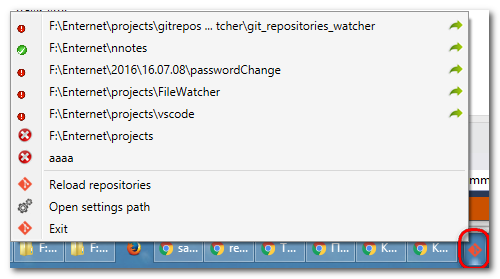
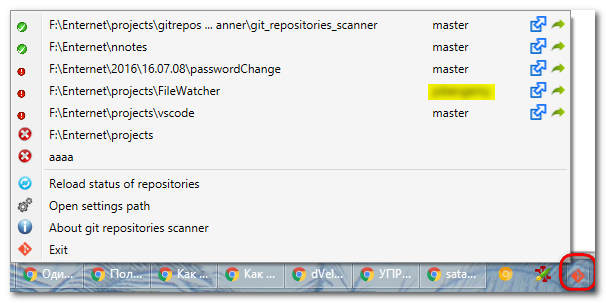
- добавил в меню имя текущей ветки

Changed region(s): [[0.0, 0.0287, 0.99, 0.9749], [0.69, 0.2007, 0.84, 0.4014], [0.69, 0.1434, 0.78, 0.172]]

diff --git a/MenuItemData.cs b/MenuItemData.cs
@@ -124,6 +124,7 @@ namespace git_repositories_scanner
                                 <Grid x:Name='mi_grid'>
                                     <Grid.ColumnDefinitions>
                                         <ColumnDefinition Width='*'/>
+                                        <ColumnDefinition Width='100'/>
                                         <ColumnDefinition Width='20'/>
                                         <ColumnDefinition Width='20'/>
                                     </Grid.ColumnDefinitions>
@@ -140,8 +141,27 @@ namespace git_repositories_scanner
                         }
                         //*
                         BranchCollection bc = repo.Branches;
+                        
                         string url_path = null;
                         string url_name = null;
+                        string branch_friendly_name = repo.Head.FriendlyName;
+
+                        {
+                            MenuItem mi_friendly_name = new MenuItem() {
+                                Name = "mi_friendly_name"
+                            };
+                            mi_friendly_name.Header = "" + branch_friendly_name + "";
+                            mi_friendly_name.ToolTip = "Branch name: [" + branch_friendly_name + "]";
+                            // Как сдвинуть содержимое меню влево, чтобы не было видно иконки:
+                            // http://serv-japp.stpr.ru:27080/images/ImageCRUD?_id=57c86a8e86b57c9b62686419
+                            // https://social.msdn.microsoft.com/Forums/vstudio/ru-RU/0465c6bf-241c-4cf5-b772-3d1a9bbc16b9/remove-icon-space-in-menuitem?forum=wpf
+                            mi_friendly_name.Padding = new System.Windows.Thickness(-30,0,-30,0);  
+                            Grid.SetColumn(mi_friendly_name, 1);
+                            Grid.SetRow(mi_friendly_name, 0);
+                            mi_grid.Children.Add(mi_friendly_name);
+                        }
+
+                        //mi.Header = ShortText(repository_path+" ["+branch_friendly_name+"]");
                         foreach (Remote b in repo.Network.Remotes)
                         {
                             url_name = b.Name;
@@ -166,7 +186,7 @@ namespace git_repositories_scanner
                             {
                                 System.Diagnostics.Process.Start(url_path);
                             };
-                            Grid.SetColumn(mi_url, 1);
+                            Grid.SetColumn(mi_url, 2);
                             Grid.SetRow(mi_url, 0);
                             mi_grid.Children.Add(mi_url);
                         }
@@ -186,7 +206,7 @@ namespace git_repositories_scanner
                         mi_commit.Command = App.CustomRoutedCommand_TortoiseGitProc;
                         mi_commit.CommandParameter = this.repository_path;
 
-                        Grid.SetColumn(mi_commit, 2);
+                        Grid.SetColumn(mi_commit, 3);
                         Grid.SetRow(mi_commit, 0);
                         mi_grid.Children.Add(mi_commit);
                         //*/

diff --git a/Properties/AssemblyInfo.cs b/Properties/AssemblyInfo.cs
@@ -51,5 +51,5 @@ using System.Windows;
 // You can specify all the values or you can default the Build and Revision Numbers 
 // by using the '*' as shown below:
 // [assembly: AssemblyVersion("1.0.*")]
-[assembly: AssemblyVersion("0.0.74.0")]
-[assembly: AssemblyFileVersion("0.0.74.0")]
+[assembly: AssemblyVersion("0.0.89.0")]
+[assembly: AssemblyFileVersion("0.0.89.0")]
